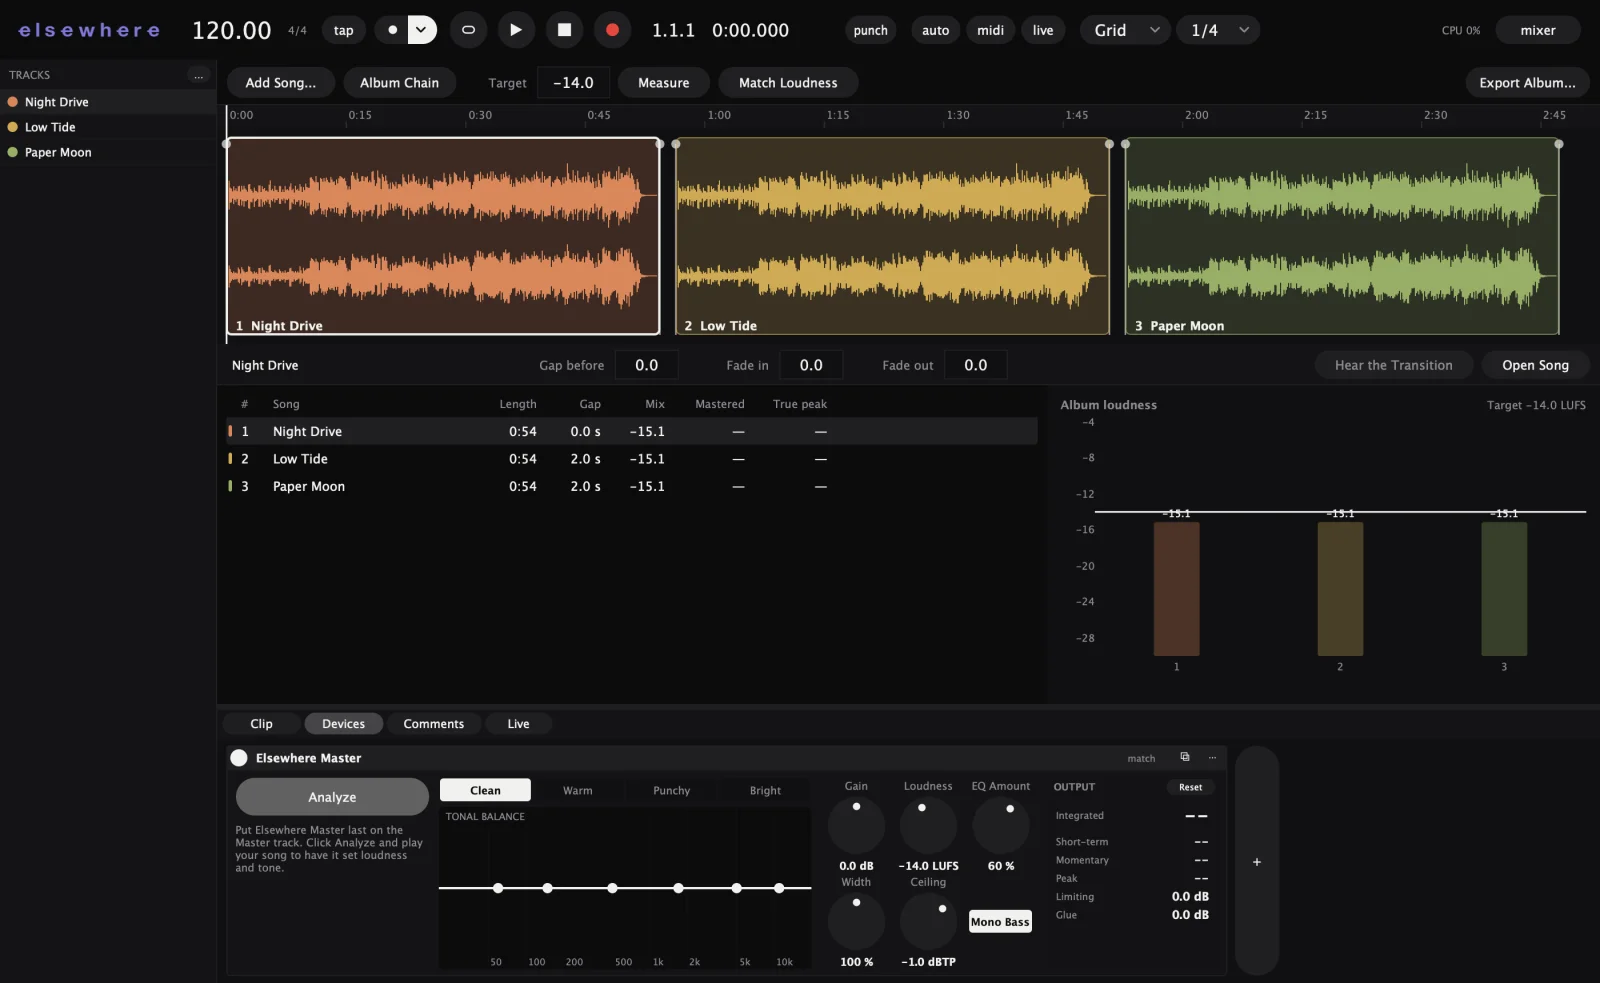
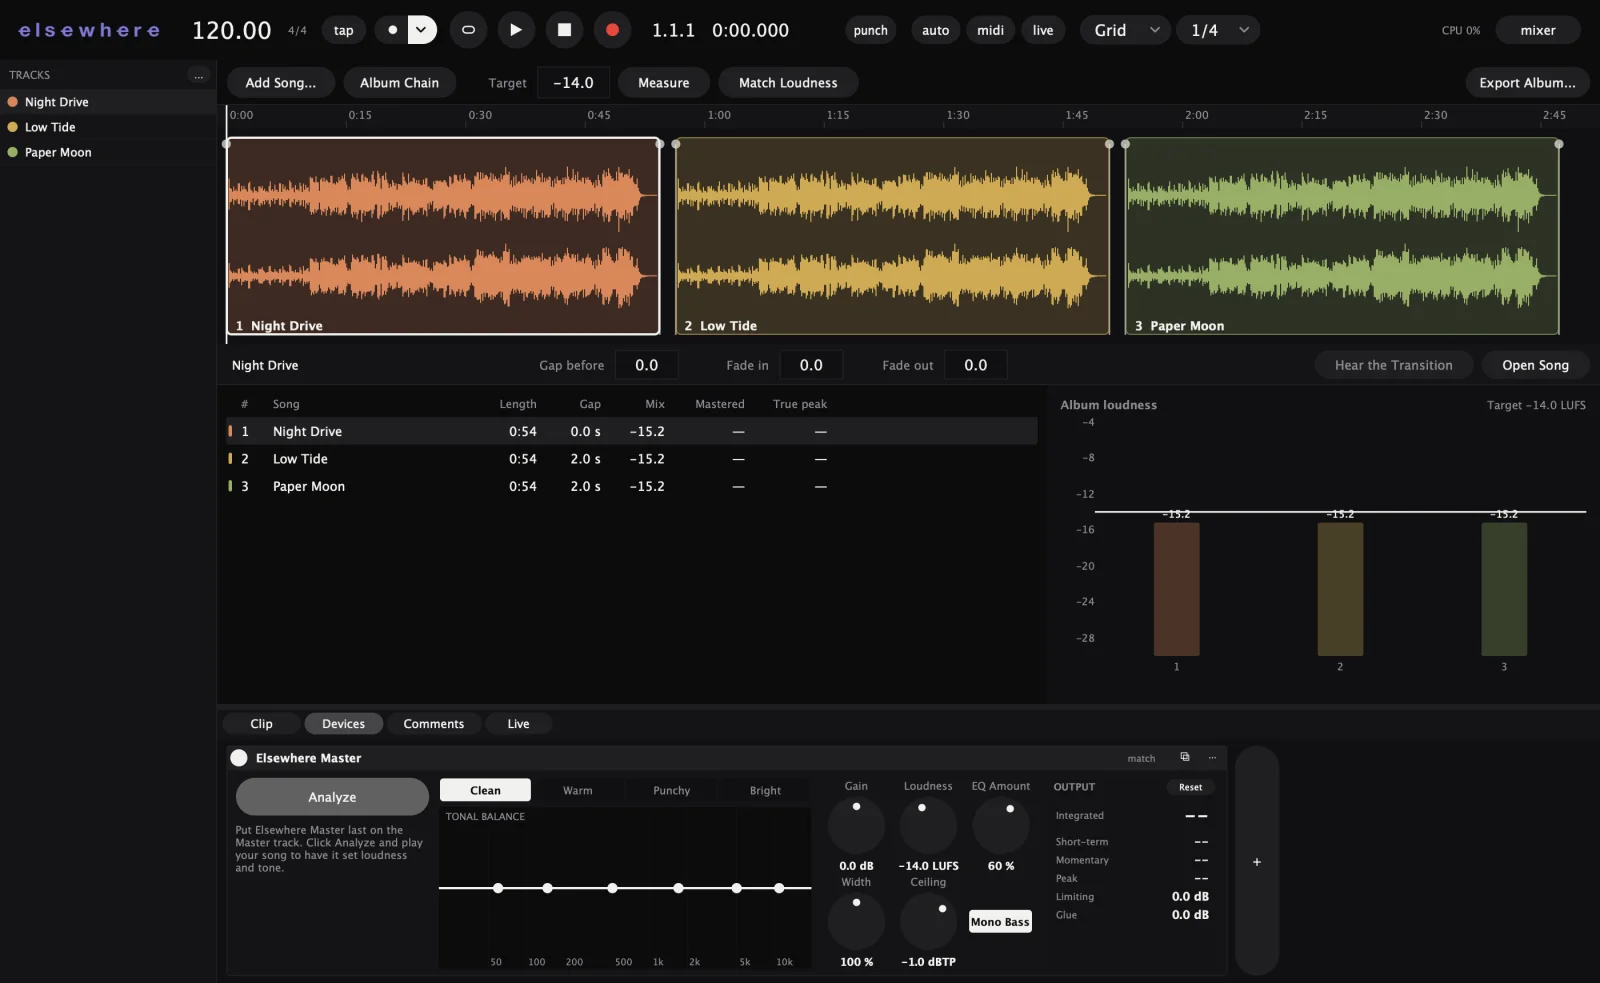
Beats from Somewhere: a beat's sounds in a folder of their own, so pads keep their names; a release shot of an imported beat

diff --git a/src/Main.cpp b/src/Main.cpp
@@ -34,6 +34,7 @@
 #include "PerfTest.h"
 #include "RecordTests.h"
 #include "Showcase.h"
+#include "SomewhereBeat.h"
 #include "devices/SomewhereControlDevice.h"
 
 namespace elsewhere
@@ -54,6 +55,152 @@ public:
 };
 
 //==============================================================================
+namespace ReleaseShots
+{
+    /** A beat folder as Somewhere exports it: four bars at 92 BPM, drums on three pads (made here),
+        chords on Haze and a line on Poly, and the stems. For the release screenshots. */
+    inline juce::File writeDemoBeat (const juce::File& parent)
+    {
+        constexpr double rate = 44100.0, bpm = 92.0;
+        constexpr int steps = 64;
+        const double stepSeconds = 60.0 / bpm / 4.0;
+        const int length = (int) (steps * stepSeconds * rate) + (int) rate;
+
+        auto folder = parent.getChildFile ("Beats/2026-11-27 10.30.00 Sunday Beat 92bpm");
+        folder.deleteRecursively();
+        folder.getChildFile ("Sounds").createDirectory();
+
+        auto writeWav = [] (const juce::File& f, const juce::AudioBuffer<float>& b)
+        {
+            f.deleteFile();
+            juce::WavAudioFormat wav;
+            std::unique_ptr<juce::OutputStream> out (f.createOutputStream().release());
+            if (auto w = std::unique_ptr<juce::AudioFormatWriter> (wav.createWriterFor (out.get(), rate, 1, 16, {}, 0)))
+            {
+                out.release();
+                w->writeFromAudioSampleBuffer (b, 0, b.getNumSamples());
+            }
+        };
+
+        // The one-shots
+        juce::Random rng (7);
+        auto shot = [&] (int which)
+        {
+            juce::AudioBuffer<float> b (1, (int) (rate * 0.5));
+            float phase = 0.0f, last = 0.0f;
+            for (int i = 0; i < b.getNumSamples(); ++i)
+            {
+                const float t = (float) i / (float) rate;
+                float v = 0.0f;
+                if (which == 0)
+                {
+                    phase += juce::MathConstants<float>::twoPi * (45.0f + 75.0f * std::exp (-t * 30.0f)) / (float) rate;
+                    v = 0.9f * std::sin (phase) * std::exp (-t * 7.0f);
+                }
+                else if (which == 1)
+                {
+                    phase += juce::MathConstants<float>::twoPi * 185.0f / (float) rate;
+                    v = (0.5f * (rng.nextFloat() * 2.0f - 1.0f) + 0.4f * std::sin (phase) * std::exp (-t * 25.0f)) * std::exp (-t * 14.0f);
+                }
+                else
+                {
+                    const float n = rng.nextFloat() * 2.0f - 1.0f;
+                    v = 0.5f * (n - last) * std::exp (-t * 60.0f);
+                    last = n;
+                }
+                b.setSample (0, i, v);
+            }
+            return b;
+        };
+
+        const char* names[] = { "Kick", "Snare", "Hat" };
+        std::vector<std::vector<std::pair<int, int>>> hits (3);     // step, velocity
+        for (int bar = 0; bar < 4; ++bar)
+        {
+            for (int st : { 0, 7, 10 })   hits[0].push_back ({ bar * 16 + st, st == 0 ? 120 : 96 });
+            for (int st : { 4, 12 })      hits[1].push_back ({ bar * 16 + st, 110 });
+            for (int st = 0; st < 16; st += 2) hits[2].push_back ({ bar * 16 + st, st % 4 == 0 ? 100 : 70 });
+        }
+        if (! hits[1].empty()) hits[1].push_back ({ 63, 80 });
+
+        juce::MidiMessageSequence drums;
+        for (int pad = 0; pad < 3; ++pad)
+        {
+            auto one = shot (pad);
+            writeWav (folder.getChildFile ("Sounds/0" + juce::String (pad + 1) + " " + names[pad] + ".wav"), one);
+
+            juce::AudioBuffer<float> stem (1, length);
+            stem.clear();
+            for (auto [st, vel] : hits[(size_t) pad])
+            {
+                const int at = (int) (st * stepSeconds * rate);
+                stem.addFrom (0, at, one, 0, 0, juce::jmin (one.getNumSamples(), length - at), (float) vel / 127.0f);
+                drums.addEvent (juce::MidiMessage::noteOn (10, 36 + pad, (juce::uint8) vel), st * 24);
+                drums.addEvent (juce::MidiMessage::noteOff (10, 36 + pad), st * 24 + 12);
+            }
+            writeWav (folder.getChildFile ("0" + juce::String (pad + 1) + " " + names[pad] + ".wav"), stem);
+        }
+
+        auto writeMidi = [] (const juce::File& f, juce::MidiMessageSequence seq)
+        {
+            seq.updateMatchedPairs();
+            juce::MidiFile mf;
+            mf.setTicksPerQuarterNote (96);
+            mf.addTrack (seq);
+            f.deleteFile();
+            juce::FileOutputStream out (f);
+            mf.writeTo (out);
+        };
+        writeMidi (folder.getChildFile ("Beat.mid"), drums);
+
+        // Chords on Haze, a line on Poly
+        const std::vector<std::vector<int>> chords = { { 57, 60, 64, 67 }, { 53, 57, 60, 64 }, { 48, 55, 60, 64 }, { 55, 59, 62, 67 } };
+        const std::vector<int> line = { 69, 72, 76, 74, 72, 69, 67, 64, 65, 69, 72, 69, 67, 64, 62, 64,
+                                        64, 67, 72, 71, 67, 64, 62, 60, 62, 67, 71, 74, 71, 67, 62, 59 };
+        juce::MidiMessageSequence haze, poly, all;
+        for (int bar = 0; bar < 4; ++bar)
+            for (int n : chords[(size_t) bar])
+            {
+                haze.addEvent (juce::MidiMessage::noteOn (1, n, (juce::uint8) 84), bar * 384);
+                haze.addEvent (juce::MidiMessage::noteOff (1, n), bar * 384 + 372);
+            }
+        for (size_t i = 0; i < line.size(); ++i)
+        {
+            poly.addEvent (juce::MidiMessage::noteOn (1, line[i], (juce::uint8) (i % 2 == 0 ? 100 : 76)), (int) i * 48);
+            poly.addEvent (juce::MidiMessage::noteOff (1, line[i]), (int) i * 48 + 36);
+        }
+        all.addSequence (haze, 0); all.addSequence (poly, 0);
+        writeMidi (folder.getChildFile ("Keys 17.mid"), haze);
+        writeMidi (folder.getChildFile ("Keys 18.mid"), poly);
+        writeMidi (folder.getChildFile ("Keys.mid"), all);
+
+        // The keys' stem: the chords as soft sines, so the stem track has a shape
+        {
+            juce::AudioBuffer<float> stem (1, length);
+            stem.clear();
+            for (int bar = 0; bar < 4; ++bar)
+                for (int n : chords[(size_t) bar])
+                {
+                    const double hz = 440.0 * std::pow (2.0, (n - 69) / 12.0);
+                    const int at = (int) (bar * 16 * stepSeconds * rate), len = (int) (16 * stepSeconds * rate);
+                    for (int i = 0; i < len && at + i < length; ++i)
+                    {
+                        const float env = juce::jmin (1.0f, (float) i / 2000.0f) * std::exp (-(float) i / (float) rate * 1.2f);
+                        stem.addSample (0, at + i, 0.12f * env * (float) std::sin (juce::MathConstants<double>::twoPi * hz * i / rate));
+                    }
+                }
+            writeWav (folder.getChildFile ("17 Keys Haze Pastel Mall.wav"), stem);
+        }
+
+        folder.getChildFile ("beat.somewhere.json").replaceWithText (R"j({"app":"Somewhere","format":1,"bpm":92,"swing":0,"patterns":[1,1,1,1],"steps":64,"sender":"Somewhere",
+  "keysSound":"Haze Pastel Mall","keysPad":17,"keysPads":[17,18],
+  "keysSynth":{"pad":17,"synth":"Haze","patch":1,"patchName":"Pastel Mall"},
+  "keysSynths":[{"pad":17,"synth":"Haze","patch":1,"patchName":"Pastel Mall"},{"pad":18,"synth":"Poly","patch":0}],
+  "sounds":[{"pad":1,"name":"Kick","file":"Sounds/01 Kick.wav"},{"pad":2,"name":"Snare","file":"Sounds/02 Snare.wav"},{"pad":3,"name":"Hat","file":"Sounds/03 Hat.wav"}]})j");
+        return folder;
+    }
+}
+
 class ElsewhereApplication : public juce::JUCEApplication,
                           public AppActions,
                           private juce::MenuBarModel,
@@ -1388,11 +1535,57 @@ private:
         juce::Timer::callAfterDelay (1200, [this, save, dir]
         {
             save ("somewhere-control");
+            mainComponent->getProject().save (false);
+            takeBeatShot (dir, save);
+        });
+    }
+
+    /** A beat from Somewhere imported into a new song, then the album. */
+    void takeBeatShot (juce::File dir, std::function<void (const juce::String&)> save)
+    {
+        auto songFolder = mainComponent->getProject().getFolder();
+        auto songFile = mainComponent->getProject().getEditFile();
+        auto beatFile = Project::createProjectFolder (dir.getChildFile ("beat"), "Sunday Beat");
+        loadProjectNow (beatFile, false);
+        auto* mc = mainComponent;
+        auto& p = mc->getProject();
+        for (auto* t : te::getAudioTracks (p.getEdit()))      // the new song's empty tracks
+            if (t->getClips().isEmpty())
+                p.getEdit().deleteTrack (t);
+        auto beatFolder = ReleaseShots::writeDemoBeat (dir.getChildFile ("phone"));
+        if (auto beat = SomewhereBeat::read (beatFolder))
+        {
+            juce::Array<juce::File> stems;
+            for (auto& st : beat->stems) stems.add (p.importAudioFile (st.file));
+            auto r = SomewhereBeat::build (p.getEdit(), *beat, stems, {}, nullptr, [&p, sounds = beat->name + " Sounds"] (const juce::File& f) { return p.importAudioFile (f, sounds); });
+            auto& vs = mc->getViewState();
+            vs.selectionManager.deselectAll();
+            if (r.drums != nullptr) vs.focusTrack (r.drums);
+            vs.detailMode = EditViewState::DetailMode::devices;
+            mc->showView (ViewLayout::MainView::arrangement, true);
+            mc->showWholeArrangement();
+            vs.sendChangeMessage();
+        }
+
+        juce::Timer::callAfterDelay (1500, [this, save, dir, songFolder, songFile]
+        {
+            Showcase::clearInputs (mainComponent->getProject().getEdit());
+            mainComponent->getViewState().sendChangeMessage();
+            juce::Timer::callAfterDelay (600, [this, save, dir, songFolder, songFile]
+            {
+            save ("somewhere-beat");
+            mainComponent->getProject().save (false);
+            takeAlbumShot (dir, save, songFolder, songFile);
+            });
+        });
+    }
+
+    /** Three copies of the demo song as an album in a mastering project, once every song has rendered. */
+    void takeAlbumShot (juce::File dir, std::function<void (const juce::String&)> save, juce::File songFolder, juce::File songFile)
+    {
+        {
 
             // Three songs: the demo song under three names, and an album of them
-            auto* m = mainComponent;
-            m->getProject().save (false);
-            auto songFolder = m->getProject().getFolder();
             auto songs = dir.getChildFile ("songs");
             songs.deleteRecursively();
             juce::Array<juce::File> files;
@@ -1400,7 +1593,7 @@ private:
             {
                 auto folder = songs.getChildFile (name);
                 songFolder.copyDirectoryTo (folder);
-                auto from = folder.getChildFile (m->getProject().getEditFile().getFileName());
+                auto from = folder.getChildFile (songFile.getFileName());
                 auto to = folder.getChildFile (juce::String (name) + from.getFileExtension());
                 if (from != to) from.moveFileTo (to);
                 files.add (to);
@@ -1418,7 +1611,7 @@ private:
             // Wait for every song to render, then take the album
             auto tries = std::make_shared<int> (0);
             auto wait = std::make_shared<std::function<void()>>();
-            *wait = [this, save, tries, wait]
+            *wait = [save, tries, wait, this]
             {
                 auto* mm = mainComponent;
                 bool done = mm != nullptr;
@@ -1434,7 +1627,7 @@ private:
                 juce::Timer::callAfterDelay (1000, [wait] { (*wait)(); });
             };
             juce::Timer::callAfterDelay (1000, [wait] { (*wait)(); });
-        });
+        }
     }
 
     /** <dir>/device_<type>.png (and _light) for each built-in device as the chain shows it, at the

diff --git a/src/Project.h b/src/Project.h
@@ -457,12 +457,14 @@ public:
 
     //==============================================================================
     /** Copies an external audio file into the project so the project stays self-contained. */
-    juce::File importAudioFile (const juce::File& source)
+    juce::File importAudioFile (const juce::File& source, const juce::String& subfolder = {})
     {
         if (source.isAChildOf (getFolder()))
             return source;
 
         auto importDir = getFolder().getChildFile ("Samples/Imported");
+        if (subfolder.isNotEmpty())
+            importDir = importDir.getChildFile (juce::File::createLegalFileName (subfolder));
         importDir.createDirectory();
         auto dest = importDir.getChildFile (source.getFileName());
 

diff --git a/src/MainComponent.cpp b/src/MainComponent.cpp
@@ -587,7 +587,7 @@ void MainComponent::importSomewhereBeat (const juce::File& folder, te::TimePosit
         edit.getUndoManager().beginNewTransaction ("Import " + b.name);
         auto* proj = safeThis->project.get();
         auto r = SomewhereBeat::build (edit, b, local, start, safeThis->getLastNonReturnTrack(),
-                                       [proj] (const juce::File& f) { return proj->importAudioFile (f); });
+                                       [proj, sounds = b.name + " Sounds"] (const juce::File& f) { return proj->importAudioFile (f, sounds); });
 
         if (auto* focus = r.drums != nullptr ? r.drums : r.keys != nullptr ? r.keys : r.stems.getFirst())
             safeThis->viewState->focusTrack (focus);
